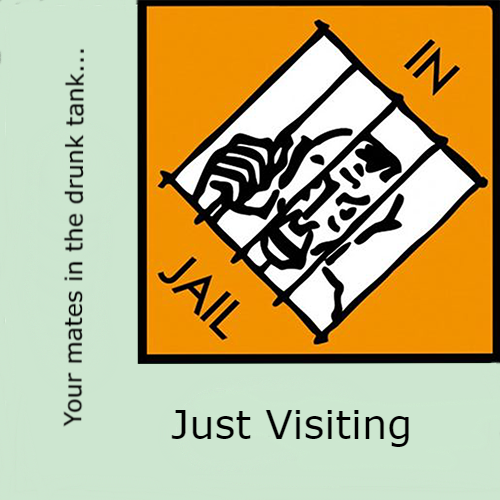
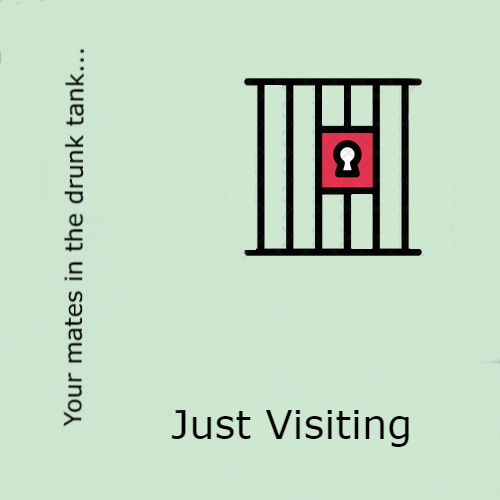
done

diff --git a/monopoly/static/js/monopoly.js b/monopoly/static/js/monopoly.js
@@ -35,6 +35,7 @@ function Card(text, action) {
 }
 
 
+
 function utiltext() {
 	return '&nbsp;&nbsp;&nbsp;&nbsp;If one "Utility" is owned rent is 4 times amount shown on dice.<br /><br />&nbsp;&nbsp;&nbsp;&nbsp;If both "Utilitys" are owned rent is 10 times amount shown on dice.';
 }
@@ -104,16 +105,16 @@ var communityChestCards = [];
 var chanceCards = [];
 
 communityChestCards[0] = new Card("Get out of Jail, Free. This card may be kept until needed or sold.", function(p) { p.communityChestJailCard = true; updateOwned();});
-communityChestCards[1] = new Card("You have won Mi Soc hotdog eating contest. Collect $10.", function() { addamount(10, 'Community Chest');});
-communityChestCards[2] = new Card("From sale of old college books, you get $50.", function() { addamount(50, 'Community Chest');});
-communityChestCards[3] = new Card("You get SUSI. Collect $100.", function() { addamount(100, 'Community Chest');});
-communityChestCards[4] = new Card("A generous man offers you money to help with tuition. Collect $20.", function() { addamount(20, 'Community Chest');});
-communityChestCards[5] = new Card("You win at Bingo Loco. Receive $100.", function() { addamount(100, 'Community Chest');});
+communityChestCards[1] = new Card("You have won second prize in a beauty contest. Collect $10.", function() { addamount(10, 'Community Chest');});
+communityChestCards[2] = new Card("From sale of stock, you get $50.", function() { addamount(50, 'Community Chest');});
+communityChestCards[3] = new Card("Life insurance matures. Collect $100.", function() { addamount(100, 'Community Chest');});
+communityChestCards[4] = new Card("Income tax refund. Collect $20.", function() { addamount(20, 'Community Chest');});
+communityChestCards[5] = new Card("Holiday fund matures. Receive $100.", function() { addamount(100, 'Community Chest');});
 communityChestCards[6] = new Card("You inherit $100.", function() { addamount(100, 'Community Chest');});
-communityChestCards[7] = new Card("Receive $25 for helping a mate with a project.", function() { addamount(25, 'Community Chest');});
-communityChestCards[8] = new Card("You threw a party in your dorm. Pay damage fees of $100.", function() { subtractamount(100, 'Community Chest');});
+communityChestCards[7] = new Card("Receive $25 consultancy fee.", function() { addamount(25, 'Community Chest');});
+communityChestCards[8] = new Card("Pay hospital fees of $100.", function() { subtractamount(100, 'Community Chest');});
 communityChestCards[9] = new Card("Bank error in your favor. Collect $200.", function() { addamount(200, 'Community Chest');});
-communityChestCards[10] = new Card("You have to buy a book for a new module. Pay $50.", function() { subtractamount(50, 'Community Chest');});
+communityChestCards[10] = new Card("Pay school fees of $50.", function() { subtractamount(50, 'Community Chest');});
 communityChestCards[11] = new Card("Doctor's fee. Pay $50.", function() { subtractamount(50, 'Community Chest');});
 communityChestCards[12] = new Card("It is your birthday. Collect $10 from every player.", function() { collectfromeachplayer(10, 'Community Chest');});
 communityChestCards[13] = new Card("Advance to \"GO\" (Collect $200).", function() { advance(0);});
@@ -123,19 +124,19 @@ communityChestCards[15] = new Card("Go to Jail. Go directly to Jail. Do not pass
 
 chanceCards[0] = new Card("GET OUT OF JAIL FREE. This card may be kept until needed or traded.", function(p) { p.chanceJailCard=true; updateOwned();});
 chanceCards[1] = new Card("Make General Repairs on All Your Property. For each house pay $25. For each hotel $100.", function() { streetrepairs(25, 100);});
-chanceCards[2] = new Card("You were late to an exam and were caught speeding. Pay Speeding fine $15.", function() { subtractamount(15, 'Chance');});
-chanceCards[3] = new Card("You have been elected president of the SU. Pay each player $50.", function() { payeachplayer(50, 'Chance');});
+chanceCards[2] = new Card("Speeding fine $15.", function() { subtractamount(15, 'Chance');});
+chanceCards[3] = new Card("You have been elected chairman of the board. Pay each player $50.", function() { payeachplayer(50, 'Chance');});
 chanceCards[4] = new Card("Go back three spaces.", function() { gobackthreespaces();});
-chanceCards[5] = new Card("Advance to the nearest utility. If unowned, you may buy it from the Bank. IF OWNED, throw dice and pay owner a total ten times the amount thrown.", function() { advanceToNearestUtility();});
+chanceCards[5] = new Card("ADVANCE TO THE NEAREST UTILITY. IF UNOWNED, you may buy it from the Bank. IF OWNED, throw dice and pay owner a total ten times the amount thrown.", function() { advanceToNearestUtility();});
 chanceCards[6] = new Card("Bank pays you dividend of $50.", function() { addamount(50, 'Chance');});
-chanceCards[7] = new Card("Advance to the nearest campus. If unowned, you may buy it from the Bank. If OWNED, pay owner twice the rental to which they are otherwise entitled.", function() { advanceToNearestRailroad();});
-chanceCards[8] = new Card("You failed an exam. Pay resit fees of $15.", function() { subtractamount(15, 'Chance');});
-chanceCards[9] = new Card("Take a trip to Glasnevin Campus. If you pass \"GO\" collect $200.", function() { advance(5);});
-chanceCards[10] = new Card("Advance to NuBar.", function() { advance(39);});
-chanceCards[11] = new Card("Advance to John and Aileen O'Reilly Libary. If you pass \"GO\" collect $200.", function() { advance(24);});
-chanceCards[12] = new Card("Your crypto investment matures. Collect $150.", function() { addamount(150, 'Chance');});
-chanceCards[13] = new Card("Advance to the nearest railroad. If UNOWNED, you may buy it from the Bank. If OWNED, pay owner twice the rental to which they are otherwise entitled.", function() { advanceToNearestRailroad();});
-chanceCards[14] = new Card("Advance to Larkfield. If you pass \"GO\" collect $200.", function() { advance(11);});
+chanceCards[7] = new Card("ADVANCE TO THE NEAREST RAILROAD. If UNOWNED, you may buy it from the Bank. If OWNED, pay owner twice the rental to which they are otherwise entitled.", function() { advanceToNearestRailroad();});
+chanceCards[8] = new Card("Pay poor tax of $15.", function() { subtractamount(15, 'Chance');});
+chanceCards[9] = new Card("Take a trip to Reading Rail Road. If you pass \"GO\" collect $200.", function() { advance(5);});
+chanceCards[10] = new Card("ADVANCE to Boardwalk.", function() { advance(39);});
+chanceCards[11] = new Card("ADVANCE to Illinois Avenue. If you pass \"GO\" collect $200.", function() { advance(24);});
+chanceCards[12] = new Card("Your building loan matures. Collect $150.", function() { addamount(150, 'Chance');});
+chanceCards[13] = new Card("ADVANCE TO THE NEAREST RAILROAD. If UNOWNED, you may buy it from the Bank. If OWNED, pay owner twice the rental to which they are otherwise entitled.", function() { advanceToNearestRailroad();});
+chanceCards[14] = new Card("ADVANCE to St. Charles Place. If you pass \"GO\" collect $200.", function() { advance(11);});
 chanceCards[15] = new Card("Go to Jail. Go Directly to Jail. Do not pass \"GO\". Do not collect $200.", function() { gotojail();});
 
 
@@ -2954,7 +2955,16 @@ window.onload = function() {
 
 
 
-	
+	// Jail corrections
+	$("<div>", {id: "jailpositionholder" }).appendTo("#jail");
+	$("<span>").text("Jail").appendTo("#jail");
+
+	document.getElementById("jail").enlargeId = "enlarge40";
+
+	document.getElementById("enlarge-wrap").innerHTML += "<div id='enlarge40' class='enlarge'><div id='enlarge40color' class='enlarge-color'></div><br /><div id='enlarge40name' class='enlarge-name'>Jail</div><br /><div id='enlarge40price' class='enlarge-price'></div><br /><div id='enlarge40token' class='enlarge-token'></div></div>";
+
+	document.getElementById("enlarge40name").innerHTML = "Jail";
+
 	// Create event handlers for hovering and draging.
 
 	var drag, dragX, dragY, dragObj, dragTop, dragLeft;

diff --git a/monopoly/templates/index.html b/monopoly/templates/index.html
@@ -242,7 +242,7 @@
 			</select>
 			<select id="player1ai" title="Choose whether this player is controled by a human or by the computer." onclick="document.getElementById('player1name').disabled = this.value !== '0';">
 				<option value="0" selected="selected">Human</option>
-				<option value="1">AI (Test)</option>
+				<option value="1">AI</option>
 			</select>
 		</div>
 
@@ -268,7 +268,7 @@
 			</select>
 			<select id="player2ai" title="Choose whether this player is controled by a human or by the computer." onclick="document.getElementById('player2name').disabled = this.value !== '0';">
 				<option value="0" selected="selected">Human</option>
-				<option value="1">AI (Test)</option>
+				<option value="1">AI</option>
 			</select>
 		</div>
 
@@ -294,7 +294,7 @@
 			</select>
 			<select id="player3ai" title="Choose whether this player is controled by a human or by the computer." onclick="document.getElementById('player3name').disabled = this.value !== '0';">
 				<option value="0" selected="selected">Human</option>
-				<option value="1">AI (Test)</option>
+				<option value="1">AI</option>
 			</select>
 		</div>
 
@@ -320,7 +320,7 @@
 			</select>
 			<select id="player4ai" title="Choose whether this player is controled by a human or by the computer." onclick="document.getElementById('player4name').disabled = this.value !== '0';">
 				<option value="0" selected="selected">Human</option>
-				<option value="1">AI (Test)</option>
+				<option value="1">AI</option>
 			</select>
 		</div>
 
